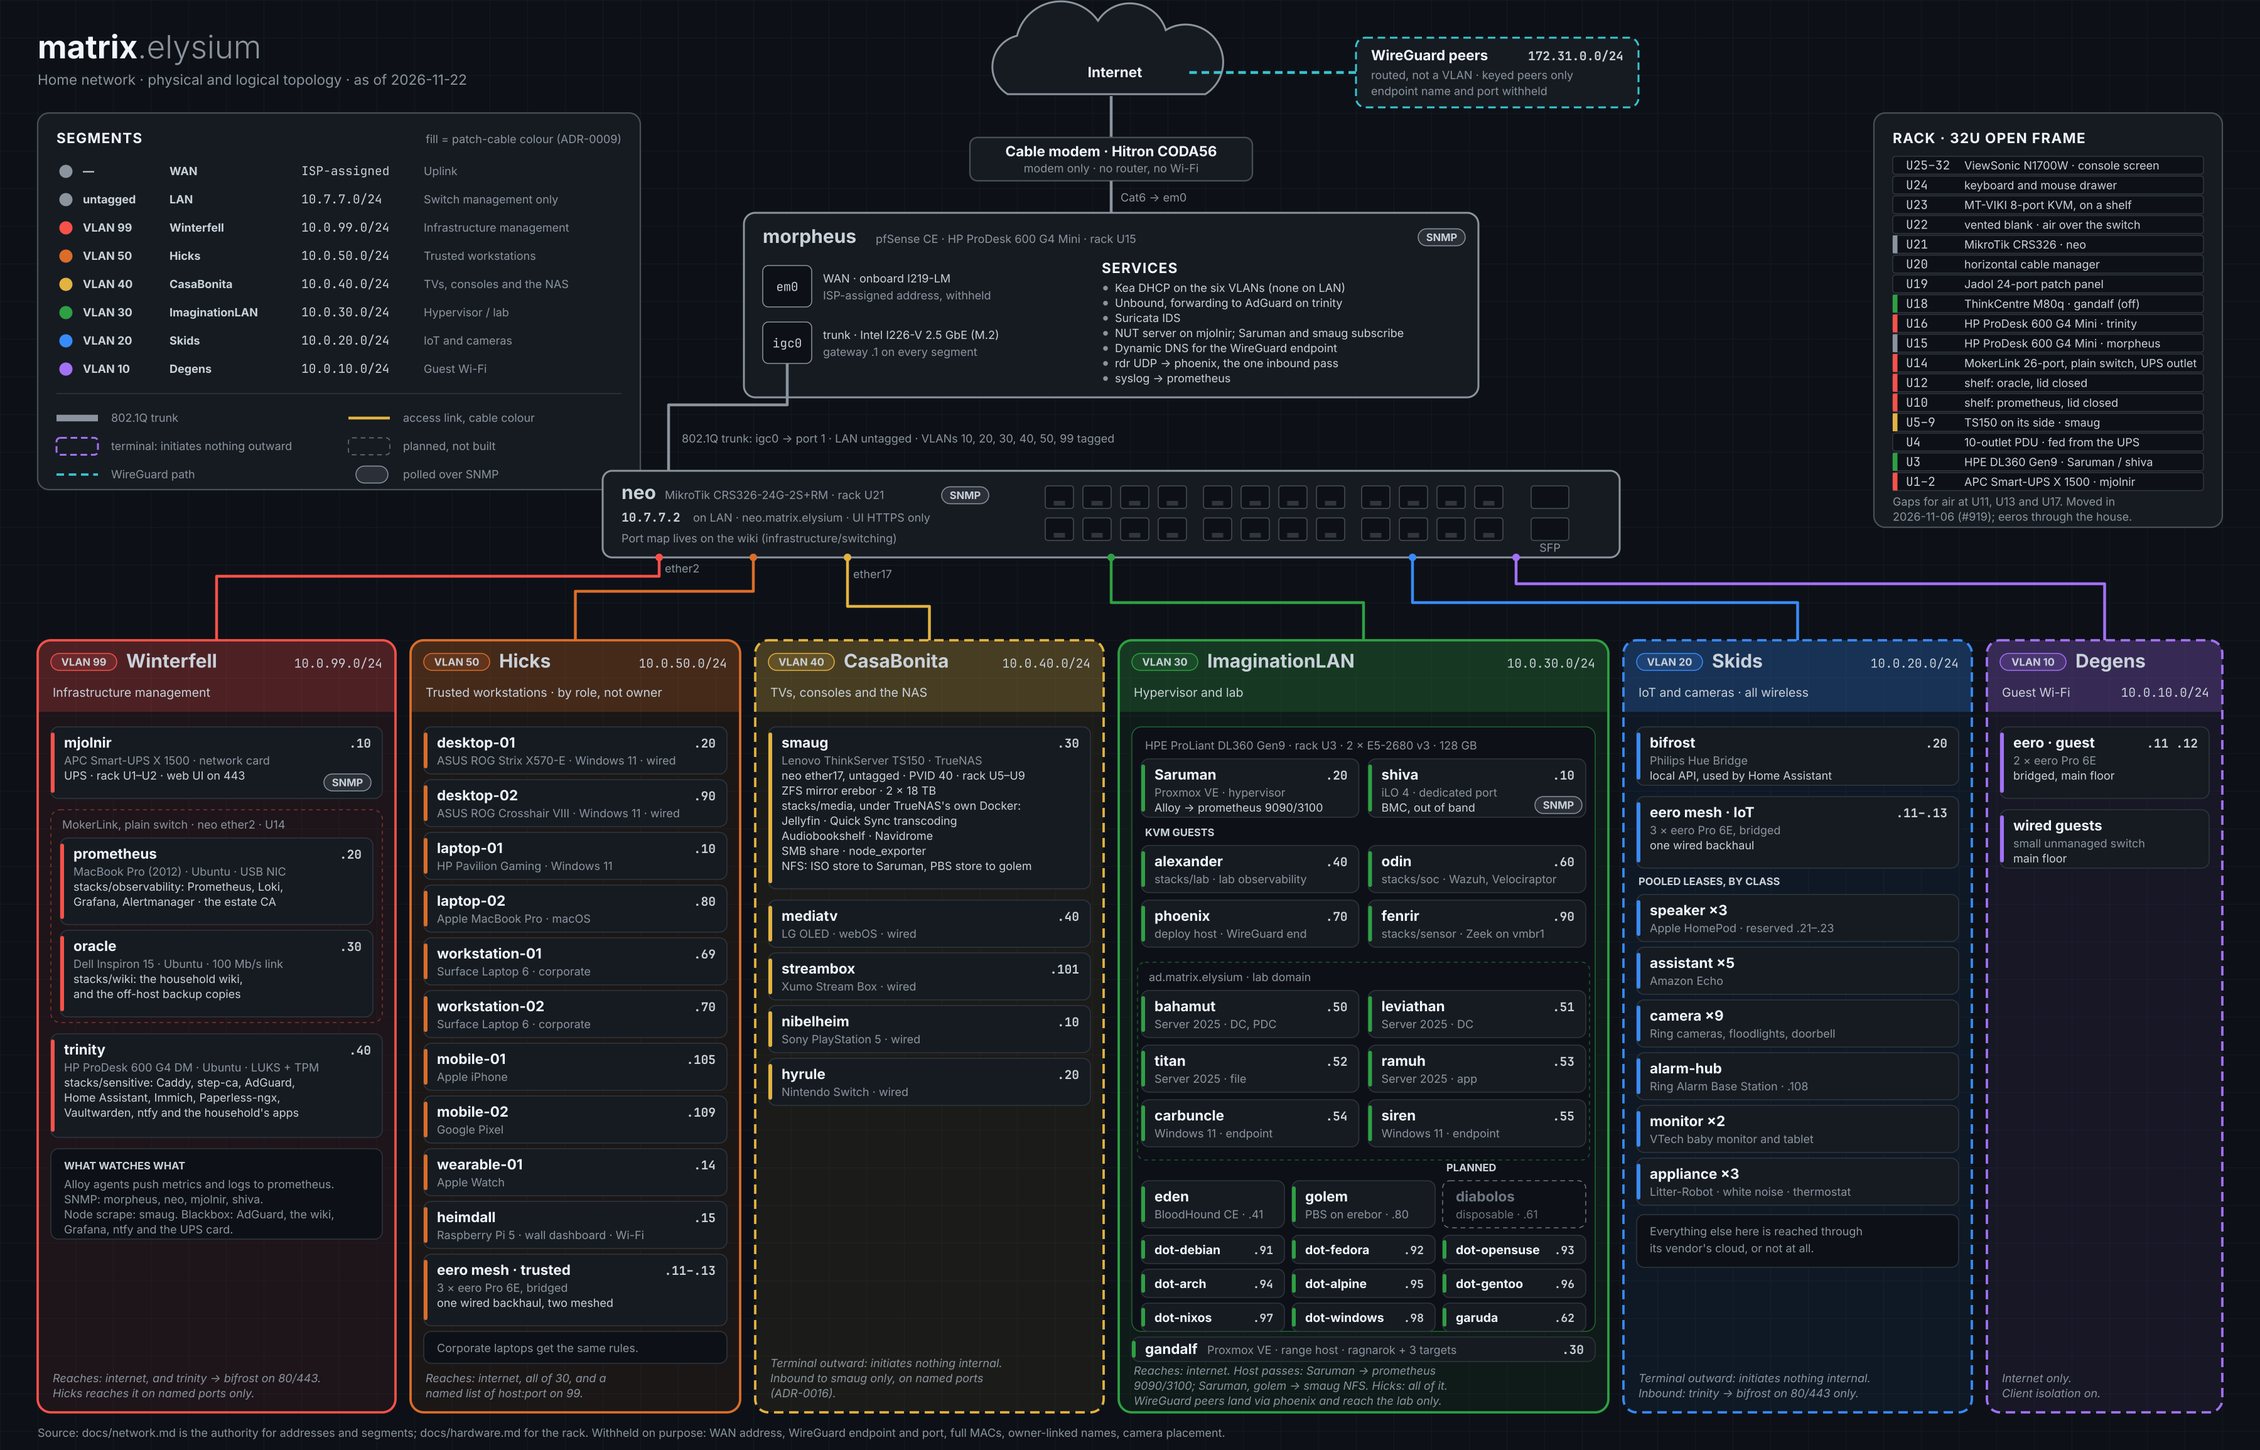
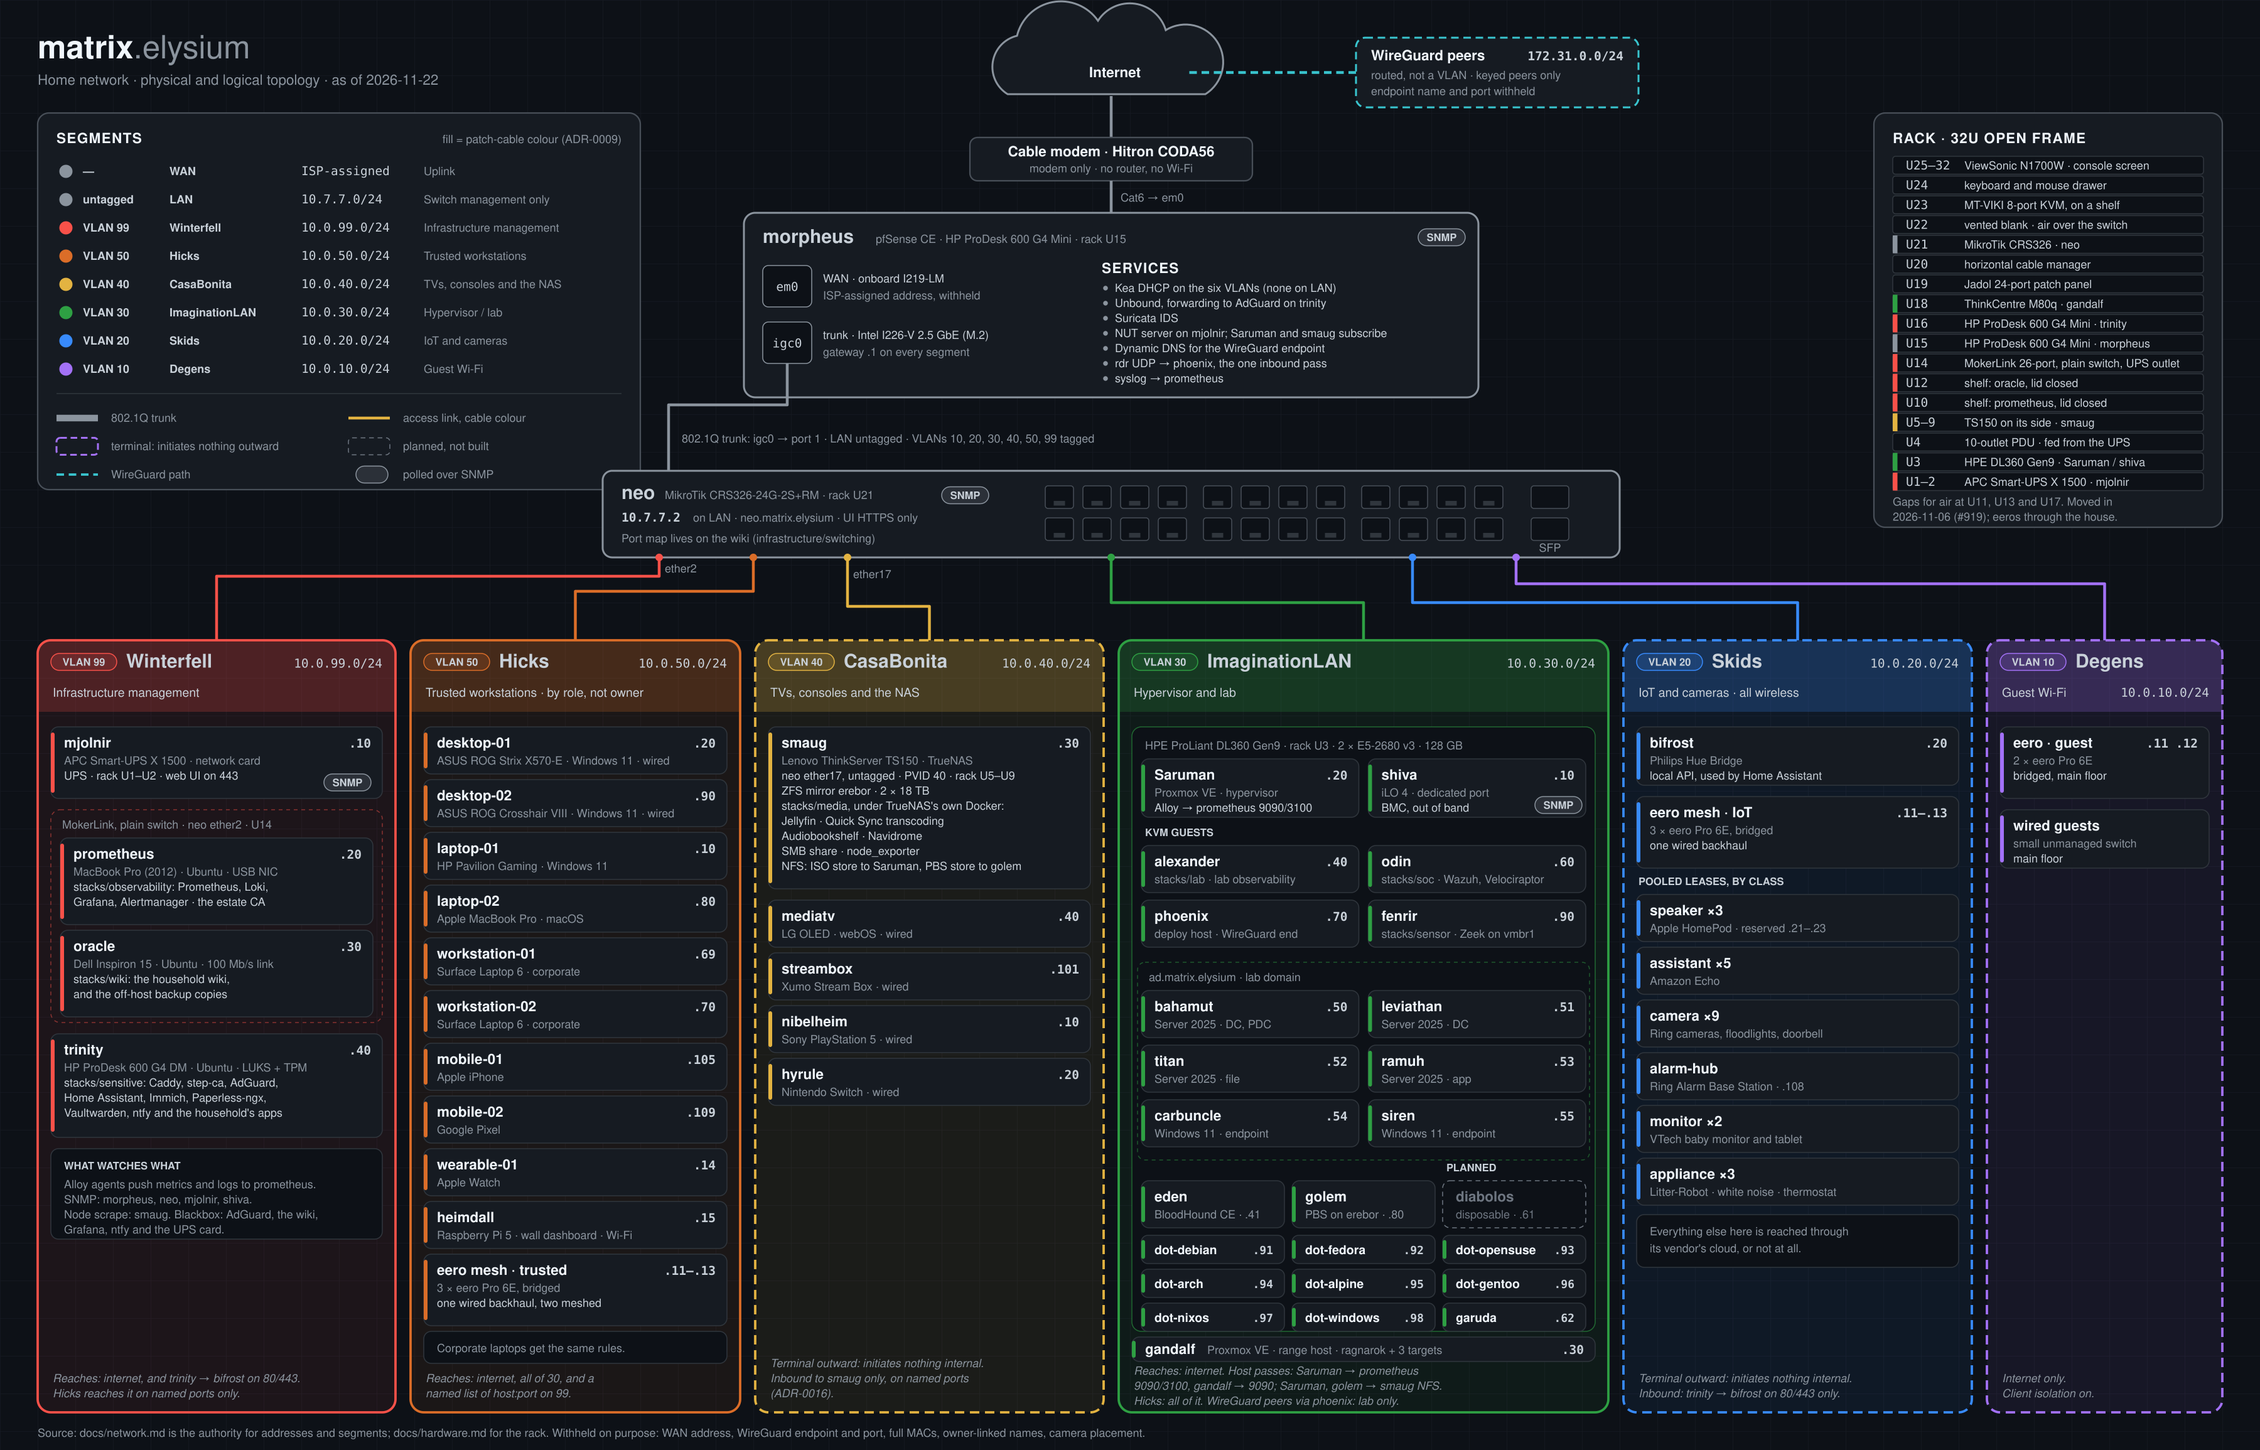
docs(network): why the smaug SSH pass stays, and gandalf's pass into Winterfell (#1707)
* docs(network): why the smaug SSH pass stays, and gandalf's pass into Winterfell

The audit left desktop-02's pass into smaug declared but unexplained; it
stays, as the manual admin path. network.md still called Saruman the one
ImaginationLAN host with a path into Winterfell, while gandalf's metrics
pass has been in force since 2026-11-23. The diagram's VLAN 30 foot and
gandalf's rack row catch up.

Refs #1651.

* docs(smaug): two key-only SSH users, and the range is monitored

Review on #1707: the admin reason for the Hicks pass contradicted
build-the-nas, which said frodo was smaug's only SSH user. The box showed
gerrrt logging in by password since 2026-11-13; both TrueNAS settings that
allowed it were cleared on 2026-11-24. build-the-playground's 'not
monitored' paragraph follows #1705.

---------

diff --git a/docs/security.md b/docs/security.md
@@ -33,6 +33,7 @@ What this network is actually built to survive:
 | A rooted range target reaching `gandalf` itself | **Dropped at `vmbr1`, before the host firewall.** The host has no address on the range bridge, but Linux answers ARP for its addresses on any interface and accepts a packet for them on any interface. So a target that adds an on-link route to `10.0.30.30` was reaching the host, and only the Proxmox firewall dropped it. `gandalf`'s own `pve-firewall-state` collector watches that firewall now ([ADR-0126](adr/0126-monitor-gandalf-now-that-it-stays-on.md), [#1651](https://github.com/Gerrrt/HomeLab/issues/1651)). A netdev `ingress` table on `vmbr1` now drops every frame the bridge passes up to the host, ARP included, without touching guest-to-guest traffic ([`build-the-playground.md`](runbooks/build-the-playground.md) §2, proved by §8 check four). Behind it, `gandalf` holds no estate credential, no GitHub login, no personal tooling and no third-party apt repository (§4, *Nothing else on `gandalf`*), so the host gives nothing beyond itself. The audits of 2026-11-13 and 2026-11-22 found credentials, then tooling and two third-party repositories. The credentials were gone by 2026-11-22 and the `.claude` footprint by 2026-11-23. **The `vmbr1` table is applied (verified live).** Root's SSH key is Proxmox's node key; the audit found it had reached github, so it was regenerated fresh on 2026-11-23, minutes after a too-broad deletion that day briefly broke self-SSH ([changelog](changelog.md)). The new key is not one github recognises, so no host credential reaches the repository — revoking the old key on github, if it was ever a deploy key, is off-host |
 | Someone on Winterfell or Hicks logging in to `trinity` | **Key-only `sshd` since 2026-11-20; no host firewall by decision.** `trinity` holds the household's data and the sensitive tier's age key, and its `sshd` answers Hicks (by [ADR-0031](adr/0031-narrow-hicks-to-a-named-list-on-winterfell-and-leave-the-lab-open.md)'s list) and every host on VLAN 99, between which pfSense never filters. [`build-the-sensitive-tier-host.md`](runbooks/build-the-sensitive-tier-host.md) §3 now makes `sshd` key-only through a drop-in that outranks cloud-init's, refuses root and X11 forwarding, and keeps `authorized_keys` to `prometheus`'s key and Hicks's. The audit of 2026-11-13 found it taking passwords, with X11 forwarding on and 17 keys imported from GitHub. The step was applied on 2026-11-20: a password-only login is refused with `Permission denied (publickey)`, and three keys remain, `prometheus`'s, Hicks's and the operator's laptop, the last kept by decision. Agent sessions run on `trinity` as the operator, by decision ([ADR-0123](adr/0123-keep-agent-sessions-on-trinity.md)). `ufw` is installed and stays disabled, unlike `phoenix`'s ([ADR-0117](adr/0117-give-phoenix-a-key-only-sshd-and-a-default-deny-inbound-policy.md)): the other two ports `trinity` answers, `443` and `53`, are published by Docker, whose rules run ahead of `ufw`'s, so a policy would govern `22` alone, which the drop-in already closes to anything without a key. Nothing routes through `trinity`, and as the spare firewall a host policy is one more thing to get in the way the day it stands in for `morpheus`. What reaches `443` and `53` is set by pfSense and by the stack's bind addresses |
 | Someone on Winterfell or Hicks logging in to `prometheus` | **Key-only `sshd` since 2026-11-23; no host firewall by decision.** `prometheus` holds the estate's CA key and the age key that opens every volume backup set, and converge runs as the operator, who is in `sudo` and `docker`. Its `sshd` answers all of Hicks (by `morpheus`'s pass for `22` to the segment) and every host on VLAN 99. The audit's root-only reads on 2026-11-23 found it taking passwords, with X11 forwarding on and `ufw` inactive. [ADR-0128](adr/0128-give-prometheus-a-key-only-sshd-and-no-host-firewall.md) makes `sshd` key-only through a drop-in that outranks cloud-init's, refusing root and X11 forwarding ([`restore-the-stack.md`](runbooks/restore-the-stack.md#make-sshd-key-only)). It adds no host firewall, because Docker's rules run ahead of `ufw`'s for the published ports, so a policy would cover `22` alone. Those ports stay fenced as before: by `morpheus` by destination, by the ingest proxy's tokens on `9090` and `3100`, and on `6514` by the syslog listener's pinned client certificate and its sender list. The step was applied the same day. `sshd -T` read `no` for all four settings, a password login and a keyboard-interactive login were each refused with `Permission denied (publickey)`, and a key login from Hicks succeeded after the reload. |
+| Someone on Hicks or Winterfell logging in to `smaug` | **Key-only `sshd` since 2026-11-24.** `smaug` holds the household's media and the `erebor` pool. Two hosts reach its `22`, each by a host-scoped pass on `morpheus` ([`network.md`](network.md)): `prometheus`, as the read-only backup user `frodo`, and `desktop-02` on Hicks, as the administrator `gerrrt`. From 2026-11-13 `gerrrt` logged in by password, allowed both on the user and in the SSH service's *Password Login Groups*, while the documents said `frodo` was the only user. Both settings were cleared in the TrueNAS UI on 2026-11-24. `sshd_config` then had no `Match` block left, and a connection as `gerrrt` or `root` was offered `publickey` alone. |
 | Someone with the trusted Wi-Fi key quietly joining | Kea's lease log reaches Loki; `UnknownDeviceOnTrustedSegment` fires the first time a MAC appears on VLAN 50 in seven days ([ADR-0019](adr/0019-read-device-joins-from-the-dhcp-server.md)) |
 | Losing visibility of a failure | 203 alert rules, 30 days of metrics and logs |
 | Someone on a reachable VLAN silencing an alert to hide a failure | Alertmanager binds to `127.0.0.1`; silences go through authenticated Grafana |

diff --git a/docs/network.md b/docs/network.md
@@ -599,9 +599,13 @@ Televisions and consoles. Internet only.
   declared it until the audit of `morpheus` on 2026-11-13 found it:** an
   SSH pass on Hicks' interface, `desktop-02` (`10.0.50.90`) →
   `10.0.40.30:22`. It is host-scoped, so `make check-firewall`'s wholesale
-  question cannot see it, and no ADR or issue says why it was made. It is
-  listed here so this count is true. Removing it, or recording why it stays,
-  is the operator's decision.
+  question cannot see it. It stays, by the operator's decision on
+  2026-11-23: `desktop-02` is where `smaug` is administered from by hand, as
+  the administrator `gerrrt`, and `prometheus`'s own pass carries the
+  automation. `gerrrt` logged in by password from 2026-11-13 until
+  2026-11-24, when both TrueNAS settings that allowed it (the user's and the
+  SSH service's *Password Login Groups*) were cleared; `smaug` now offers
+  every user `publickey` alone.
 - **One more from Hicks is specified and not yet created.**
   `Allow 5800 to smaug`, Hicks → `10.0.40.30:5800`, is for MakeMKV's web GUI,
   the disc ripper that runs on `smaug` only while someone is ripping
@@ -652,7 +656,9 @@ Televisions and consoles. Internet only.
   when [`build-the-nas.md`](runbooks/build-the-nas.md) §6.2 switched it on
   for the backup pull [ADR-0045](adr/0045-pull-jellyfins-state-from-a-snapshot-over-ssh.md)
   decided: key-only, one read-only user, `frodo`, and the rule already scopes
-  it to `10.0.99.20`. The first pull landed on 2026-09-20.
+  it to `10.0.99.20`. The first pull landed on 2026-09-20. A second user, the
+  administrator `gerrrt`, reaches it from `desktop-02` through the Hicks pass
+  above, key-only since 2026-11-24.
 
 [^OLEDTV]: [LG OLED TV](https://www.lg.com/us/tvs/oled)
 [^PS5]: [PlayStation 5](https://www.playstation.com/en-us/ps5/)
@@ -893,14 +899,20 @@ Where things get broken on purpose.
   is not a second segment and needs no row in this document's tables. Every
   path `fenrir` needs is intra-segment — its Alloy pushes to `alexander` — so
   it adds no firewall rule.
-- `Saruman` runs an Alloy agent and is the one host on this segment with a path
-  into Winterfell: a single pass, `10.0.30.20 → 10.0.99.20` on 9090 and 3100
-  TCP, unlogged and above the ADR-0014 tripwire. The hypervisor's own telemetry
+- `Saruman` and `gandalf` are the two hosts on this segment with a path into
+  Winterfell. `Saruman` runs an Alloy agent: a single pass,
+  `10.0.30.20 → 10.0.99.20` on 9090 and 3100 TCP, unlogged and above the
+  ADR-0014 tripwire. The hypervisor's own telemetry
   only; guests get no such rule (ADR-0007, as amended by #88). Past the rule,
   the ingest proxy wants `Saruman`'s agent token (#182), so the pass lets the
   host try and the token is what gets it served. The push is TLS under the
   estate CA (#764), so the token is not readable at the firewall that forwards
-  it.
+  it. `gandalf`, the range hypervisor, is the second: its agent is
+  metrics-only, so its pass, `Allow metrics from gandalf`, is
+  `10.0.30.30 → 10.0.99.20` on 9090 alone, in force since 2026-11-23. The
+  ingest proxy wants its own agent token
+  ([ADR-0126](adr/0126-monitor-gandalf-now-that-it-stays-on.md),
+  [#1651](https://github.com/Gerrrt/HomeLab/issues/1651)).
 - **`Saruman` is at `.20`, below the pool, like every other static.** Until
   2026-11-07 it was at `.110`, the one fixed address in the estate inside a
   DHCP pool (ImaginationLAN's runs `.100–.200`). Only Kea's

diff --git a/docs/runbooks/build-the-playground.md b/docs/runbooks/build-the-playground.md
@@ -1725,18 +1725,21 @@ Addresses are parsed at query time rather than indexed, per
 
 ## Also worth knowing
 
-**The range is not monitored and not backed up.** Only the second is still a
-decision. ADR-0017 declined an Alloy agent because `gandalf` was off by design,
-so any rule watching it would be permanently firing or permanently silenced.
-Since [ADR-0125](../adr/0125-keep-gandalf-on-and-stop-ragnarok-on-a-timer.md)
-the host stays on, so that reason is gone, and monitoring it is
-[#1651](https://github.com/Gerrrt/HomeLab/issues/1651). ADR-0017 also declines PBS
+**The range is monitored but not backed up.** ADR-0017 declined an Alloy agent
+because `gandalf` was off by design, so any rule watching it would be
+permanently firing or permanently silenced. Since
+[ADR-0125](../adr/0125-keep-gandalf-on-and-stop-ragnarok-on-a-timer.md) the
+host stays on, and since 2026-11-23 its metrics-only agent and the range rules
+are live (*Monitoring the host*, above;
+[#1651](https://github.com/Gerrrt/HomeLab/issues/1651)). ADR-0017 also declines PBS
 because a deliberately-vulnerable image in the estate's backup store is a
 supported path for it to arrive somewhere it should not be. If you find yourself
 wanting to back something up here, the thing you want to keep has stopped being
 range and started being estate, and it is on the wrong machine.
 
-**The tripwire is the only thing watching.** `pass` + `log` for
+**The tripwire is the only thing watching the segment's edge.** The range
+rules watch `gandalf` itself; what crosses from ImaginationLAN into the house
+is seen only by the tripwire: `pass` + `log` for
 `vlan30 net → Internal_Segments` on the ImaginationLAN interface, below the
 blocks and the `quick` iLO pass, above the `→ any` egress rule
 ([#234](https://github.com/Gerrrt/HomeLab/issues/234)). It matches nothing while

diff --git a/docs/changelog.md b/docs/changelog.md
@@ -164,6 +164,23 @@ docstring gives: it is a record, not a claim about now.
   ADR-0037 gives two to seven days after step-ca stops answering, usually
   about five, not seven. Found re-checking the `prometheus` audit.
 
+- **`network.md` declares two passes into other segments, `smaug` stops
+  taking passwords, and the diagram catches up.** The audit of `morpheus` left the Hicks SSH pass into `smaug`
+  (`desktop-02` → `10.0.40.30:22`) declared but unexplained. It stays: on
+  2026-11-23 the operator recorded it as where `smaug` is administered from by
+  hand. Review then found what that path is: since 2026-11-13 the
+  administrator `gerrrt` had logged in through it **by password**, allowed
+  twice over, on the user and in the SSH service's *Password Login Groups*,
+  while `network.md` and `build-the-nas.md` said `smaug`'s SSH answered
+  `frodo` alone, key-only. Both settings were cleared on 2026-11-24, and
+  `smaug` now offers every user `publickey` alone. A re-check of the box on 2026-11-24 found `Allow metrics from gandalf`
+  (`10.0.30.30 → 10.0.99.20:9090`, #1651) in force while `network.md` still
+  called `Saruman` the one ImaginationLAN host with a path into Winterfell;
+  it now names both. The network diagram's foot for VLAN 30 lists the
+  gandalf pass, and the rack row no longer calls `gandalf` off (ADR-0125
+  keeps it on). `build-the-playground.md` stops saying the range is not
+  monitored.
+
 ## 2026-11-23
 
 - **NUT's driver on `morpheus` retries for 14 seconds, not 6.** The *data

diff --git a/docs/runbooks/build-the-nas.md b/docs/runbooks/build-the-nas.md
@@ -434,8 +434,11 @@ TrueNAS ships SSH disabled, and on the day this ran §0.5's port-22 pass was
 inert. Enabling it here to save a walk to the machine would have widened this
 host's attack surface for the sake of five commands; §6.2's backup pull was
 the reason to turn it on, on 2026-09-19, and this was not it. The service
-now answers one key-only user, `frodo`, who can read a snapshot and nothing
-else — still not a way to administer the box.
+answered one key-only user, `frodo`, who can read a snapshot and nothing
+else. Since 2026-11-13 it also answers the administrator `gerrrt` from
+`desktop-02`, through the Hicks pass in [`network.md`](../network.md), and
+both are key-only since 2026-11-24. This section still runs at the console:
+it predates that account, and the console needs no pass.
 
 ```bash
 lsblk
